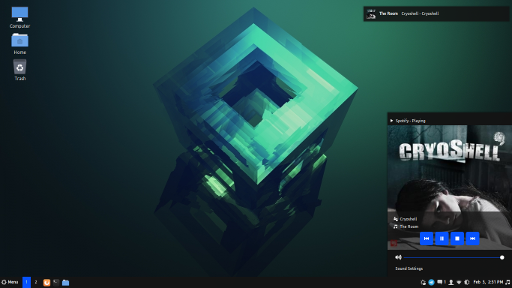
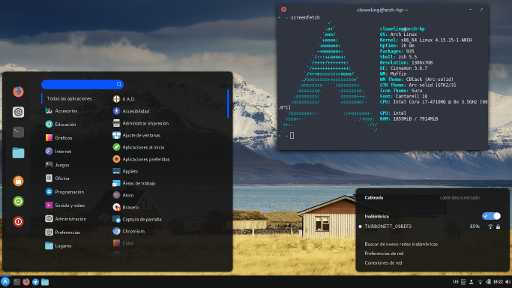
Update and added license

diff --git a/CBlack/files/CBlack/cinnamon/cinnamon.css b/CBlack/files/CBlack/cinnamon/cinnamon.css
@@ -4,7 +4,7 @@
  * ###################################################################*/
 
  stage {
-    font-family: ubuntu, noto sans, sans, noto, open;
+    font-family: cantarell, ubuntu, noto sans, sans, noto, open;
 }
 
 .cinnamon-link {
@@ -52,7 +52,7 @@ StScrollBar StButton#hhandle {
 }
 
 StScrollBar StButton#hhandle:hover, StScrollBar StButton#vhandle:hover {
-    background-color: crimson;
+    background-color: rgba(7, 83, 255, 0.80);
 }
 
 .separator {
@@ -79,8 +79,8 @@ StScrollBar StButton#hhandle:hover, StScrollBar StButton#vhandle:hover {
     border: 0px solid rgba(212, 185, 67, 0);
     border-radius: 0px;
     padding: 4px 12px;
-    background-gradient-end: rgba(20, 20, 20, 1);
-    background-gradient-start: rgba(20, 20, 20, 1);
+    background-gradient-end: rgba(20, 20, 20, 0.95);
+    background-gradient-start: rgba(20, 20, 20, 0.95);
     background-gradient-direction: vertical;
     color: white;
     font-size: 9pt;
@@ -101,15 +101,15 @@ StScrollBar StButton#hhandle:hover, StScrollBar StButton#vhandle:hover {
 }
 
 .notification-button:hover, .notification-icon-button:hover, .modal-dialog-button:hover, .sound-player-overlay StButton:hover {
-    background-color: crimson;
+    background-color: rgba(7, 83, 255,0.80);
 }
 
 .notificatio-button:focus, .notification-icon-button:focus, .modal-dialog-button:focus, .sound-player-overlay StButton:focus {
-    border: 0px solid #8b8b8b;
+    border: 0px solid rgba(7, 83, 255,0.80);
 }
 
 .notification-button:active, .notification-icon-button:active, .modal-dialog-button:active, .modal-dialog-button:pressed, .sound-player-overlay StButton:active {
-    background-color: crimson;
+    background-color: rgba(7, 83, 255,0.80);
 }
 
 
@@ -131,21 +131,45 @@ StScrollBar StButton#hhandle:hover, StScrollBar StButton#vhandle:hover {
 
 .popup-menu {
     color: #ffffff;
-    font-size: 8pt;
+    font-size: 9pt;
     min-width: 150px;
-    background-color: rgba(20, 20, 20,0.90);
-    box-shadow: 0px 0px 4px 2px rgba(0,0,0,0.60);
+    background-color: rgba(20, 20, 20, 0.80);
+    box-shadow: 0px 0px 4px 2px rgba(0,0,0, 0.60);
 }
 
 .menu {
-    box-shadow: 0px 0px 4px 2px rgba(0,0,0,0.60);
-    border-radius: 0px;
-    background-color: rgba(20, 20, 20,0.90);
-    border-width: 0px;
+    box-shadow: 0px 0px 4px 2px rgba(20, 20, 20, 0.6);
+    border-radius: 10px;
+    background-color: rgba(20, 20, 20, 0.85);
+    border-width: 0em;
     border-color: #ffffff;
     color: #ffffff;
-    font-size: 8pt;
+    font-size: 9pt;
     min-width: 150px;
+}
+
+.menu.bottom {
+    margin-left: 0.5em;
+    margin-bottom: 0.8em;
+    margin-right: 0.5em;
+}
+
+.menu.top {
+    margin-left: 0.5em;
+    margin-top: 0.8em;
+    margin-right: 0.5em;
+}
+
+.menu.left {
+    margin-top: 0.5em;
+    margin-left: 0.8em;
+    margin-bottom: 0.5em;
+}
+
+.menu.right {
+    margin-top: 0.5em;
+    margin-right: 0.8em;
+    margin-bottom: 0.5em;
 }
 
 .popup-menu-arrow {
@@ -219,10 +243,10 @@ StScrollBar StButton#hhandle:hover, StScrollBar StButton#vhandle:hover {
 
 .popup-separator-menu-item {
     -gradient-height: 0px;
-    -gradient-start: rgba(85, 85, 85, 1);
-    -gradient-end: #555555;
-    -margin-horizontal: 0em;
-    height: 0em;
+    -gradient-start: rgba(85, 85, 85, 0);
+    -gradient-end: rgba(85, 85, 85, 0);
+    -margin-horizontal: 1em;
+    height: 1em;
 }
 
 .popup-alternating-menu-item:alternate {
@@ -305,7 +329,7 @@ StScrollBar StButton#hhandle:hover, StScrollBar StButton#vhandle:hover {
 
 #panel {
     color: #ffffff;
-    background-color: rgba(20, 20, 20, 0.95);
+    background-color: rgba(20, 20, 20, 1);
     box-shadow: 0px 0px 4px 2px rgba(0,0,0,0.40);
     font-size: 8pt;
     font-weight: normal;
@@ -597,8 +621,6 @@ StScrollBar StButton#hhandle:hover, StScrollBar StButton#vhandle:hover {
   width: 26px;
 }
 
-
-
 .window-close:rtl {
     -st-background-image-shadow: 2px 2px 6px rgba(0, 0, 0, 0);
 }
@@ -808,18 +830,20 @@ StScrollBar StButton#hhandle:hover, StScrollBar StButton#vhandle:hover {
 
 #notification {
     font-size: 8pt;
-	  border: 0px solid #a5a5a5;
-    box-shadow: 0px 0px 4px 2px rgba(0,0,0,0.40);
+	  border: 0px solid rgba(20, 20, 20,0.95);
+    box-shadow: 0px 0px 4px 2px rgba(0,0,0,0.60);
     background-color: rgba(20, 20, 20,0.80);
+    border-radius: 10px;
 	  padding: 8px 8px 8px 8px;
 	  spacing-rows: 10px;
 	  spacing-columns: 10px;
-	  margin-from-right-edge-of-screen: 20px;
+	  margin-from-right-edge-of-screen: 15px;
 	  width: 35em;
 	  color: white;
 }
 
-#notification.multi-line-notification {
+
+#notification .multi-line-notification {
     padding-bottom: 8px;
     color: white;
 }
@@ -917,18 +941,18 @@ StScrollBar StButton#hhandle:hover, StScrollBar StButton#vhandle:hover {
 }
 
 #altTabPopup .switcher-list .item-box:selected  {
-    background-color: rgb(7, 83, 255);
+    background-color: rgba(60, 60, 60, 0.4);
 }
 
 .switcher-list {
     background: rgba(20, 20, 20,0.8);
     box-shadow: 0px 0px 4px 2px rgba(0,0,0,0.40);
-	border: 0px solid #a5a5a5;
-	border-radius: 0px;
-	padding: 20px;
-	font-size: 9pt;
-	color: white;
-	text-shadow: black 0px 0px 2px;
+  	border: 0px solid rgba(20, 20, 20, 0);;
+  	border-radius: 0px;
+  	padding: 20px;
+  	font-size: 9pt;
+	  color: white;
+	  text-shadow: black 0px 0px 2px;
 }
 
 .switcher-list-item-container {
@@ -966,7 +990,7 @@ StScrollBar StButton#hhandle:hover, StScrollBar StButton#vhandle:hover {
 }
 
 .switcher-list .item-box:selected {
-    background-color: red;
+    background-color: rgba(7, 83, 255, 0.6);
 }
 
 .switcher-list {
@@ -1277,17 +1301,18 @@ StScrollBar StButton#hhandle:hover, StScrollBar StButton#vhandle:hover {
 /* Main menu title */
 
 .menu-favorites-box {
-    padding: 10px;
+    padding: 5px;
     border: 0px solid #666;
+    background-color: rgba(30, 30, 30, 0.8);
     border-radius: 8px;
     transition-duration: 300;
 }
 
 .menu-favorites-button {
-    padding-top: 0px;
-    padding-left: 2px;
-    padding-right: 0px;
-    padding-bottom: 0px;
+    padding-top: 10px;
+    padding-left: 10px;
+    padding-right: 10px;
+    padding-bottom: 10px;
     border: 0px rgba(7, 83, 255, 0);
     border-left: 2px;
 
@@ -1328,16 +1353,16 @@ StScrollBar StButton#hhandle:hover, StScrollBar StButton#vhandle:hover {
 
 .menu-applications-outer-box {
     padding-top: 10px;
-    padding-left: 0px;
-    padding-right: 1px;
+    padding-left: 10px;
+    padding-right: 10px;
     padding-bottom: 0px;
 }
 
 .menu-application-button {
-    padding-top: 7px;
+    padding-top: 5px;
     padding-left: 7px;
     padding-right: 7px;
-    padding-bottom: 7px;
+    padding-bottom: 5px;
 }
 
 .menu-application-button:highlighted {
@@ -1432,11 +1457,11 @@ StScrollBar StButton#hhandle:hover, StScrollBar StButton#vhandle:hover {
 }
 
 .menu-selected-app-description {
-    max-width: 150px;
+    max-width: 100px;
 }
 
 .menu-search-box:ltr {
-    padding-left: 65px;
+    padding-left: 30px;
 }
 
 .menu-search-box:rtl {
@@ -1444,13 +1469,13 @@ StScrollBar StButton#hhandle:hover, StScrollBar StButton#vhandle:hover {
 }
 
 #menu-search-entry {
-    padding-right: 10px;
-    padding-left: 10px;
+    padding-right: 5px;
+    padding-left: 5px;
     color: white;
     selected-color: black;
     caret-color: white;
     caret-size: 1px;
-    width: 250px;
+    width: 210px;
     height: 25px;
     transition-duration: 300;
     box-shadow: inset 0px 0px 0px rgba(0, 0, 0, 0.6);
@@ -1466,7 +1491,7 @@ StScrollBar StButton#hhandle:hover, StScrollBar StButton#vhandle:hover {
 }
 
 #menu-search-entry:focus {
-    font-size: 12px;
+    font-size: 1em;
     color: #fbfbfb;
     transition-duration: 300;
 }
@@ -1651,18 +1676,15 @@ StScrollBar StButton#hhandle:hover, StScrollBar StButton#vhandle:hover {
 }
 
 .workspace-button {
-    width: 20px;
-    height: 10px;
-    background-color: rgb(20, 20, 20);
+    width: 1.5em;
+    background-color: rgba(20, 20, 20, 0.60);
     color: white;
     /* border: 1px; */
     /* border-color: white; */
-    padding: 2px;
     transition-duration: 300;
 }
 
 .workspace-button:outlined {
-    padding: 1px;
     background-gradient-direction: vertical;
 	  background-gradient-start: rgb(7, 83, 255);
 	  background-gradient-end: rgb(7, 83, 255);
@@ -1820,7 +1842,7 @@ StScrollBar StButton#hhandle:hover, StScrollBar StButton#vhandle:hover {
  * ===================================================================*/
 
 .applet-separator {
-    padding: 5px 3px;
+    padding: 0px 0px;
 }
 
 .applet-separator-line {
@@ -1834,9 +1856,8 @@ StScrollBar StButton#hhandle:hover, StScrollBar StButton#vhandle:hover {
 }
 
 .applet-box {
-    padding-left: 3px;
-    padding-right: 3px;
-    spacing: 3px;
+    padding-left: .3em;
+    padding-right: .3em;
     color: #ccc;
     text-shadow: black 0px 0px 2px;
     transition-duration: 300;
@@ -1844,7 +1865,7 @@ StScrollBar StButton#hhandle:hover, StScrollBar StButton#vhandle:hover {
 
 .panel-top .applet-box,
 .panel-bottom .applet-box {
-    spacing: 3px;
+    spacing: .2em;
 }
 
 .applet-box:checked,
@@ -2032,17 +2053,7 @@ StScrollBar StButton#hhandle:hover, StScrollBar StButton#vhandle:hover {
 
 /*This option works only applica to any applet that is in the left corner*/
 
- #panelLeft .applet-box:first-child {
-     /*background-color: crimson;
-     color: #fff;
-     font-weight: bold;*/
- }
-
- #panelLeft .applet-box:first-child .applet-label {
-    padding-right: 5px;
- }
-
-.panel-bottom #panelLeft .applet-box:first-child:hover {
+.panel-bottom .applet-box:first-child:hover {
     border-image: url("common-assets/menu/button-menu-hover-bottom.svg") 9 9 9 9;
  }
 
@@ -2058,7 +2069,7 @@ StScrollBar StButton#hhandle:hover, StScrollBar StButton#vhandle:hover {
     border-image: url("common-assets/menu/button-menu-hover-right.svg") 9 9 9 9;
  }
 
- #panelLeft .applet-box:first-child:active {
+.applet-box:first-child:active {
     background-color: rgba(7, 83, 255, 1);
  }
 
@@ -2217,5 +2228,5 @@ StScrollBar StButton#hhandle:hover, StScrollBar StButton#vhandle:hover {
  * tray icons are not themed
  * ===================================================================*/
  .systray {
-    spacing: 5px;
+    spacing: 1em;
 }

diff --git a/CBlack/CHANGELOG.md b/CBlack/CHANGELOG.md
@@ -1,8 +1,17 @@
+### Update 1.1
+* Added license.
+* Changed the search engine style for a better adaptation with unofficial menu applets.
+* The menus are no longer glued to the panel, now they float and with round corners.
+* The width of the menus is widened.
+* Removed transparency from the panel, if you want transparency there is an extension called transparent panels.
+* Round borders were added to notification.
+* Modified the spaces of each applet used in the panel.
+
 ### Update 1.0
 
-* Limpio el tema, eliminando imagenes que no se utilizaran.
-* Se quita el color rojo de algunas partes del tema.
-* Integrado con Cinnamon 3.6
+* Clean the theme, eliminating images that will not be used.
+* The red color of some parts of the theme is removed.
+* Integrated with Cinnamon 3.6
 
 ### Update 0.8.1
 
